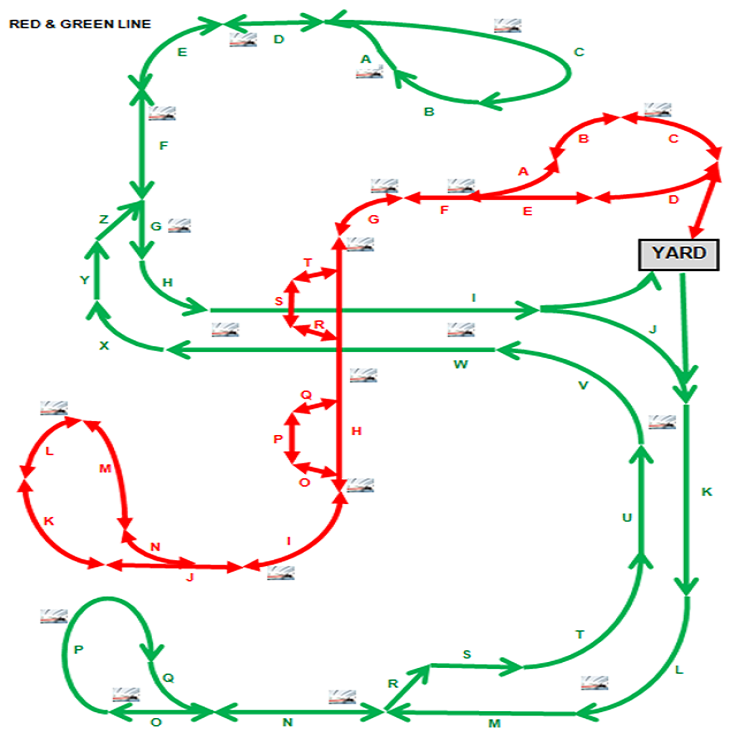
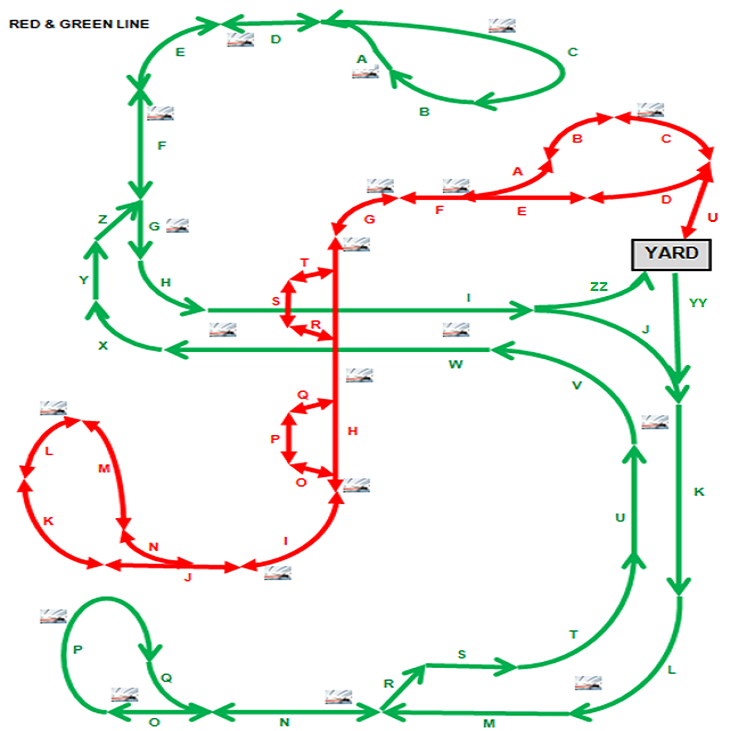
Made slight changes to Office UI

diff --git a/src/ctcOffice/OfficeUI.java b/src/ctcOffice/OfficeUI.java
@@ -122,7 +122,7 @@ public class OfficeUI extends JFrame {
 		
 		JToggleButton toggleButtonG8 = new JToggleButton("");
 		toggleButtonG8.setBackground(Color.LIGHT_GRAY);
-		toggleButtonG8.setBounds(556, 63, 15, 15);
+		toggleButtonG8.setBounds(557, 68, 15, 15);
 		trackDisplayPanel.add(toggleButtonG8);
 		
 		JToggleButton toggleButtonG9 = new JToggleButton("");
@@ -172,12 +172,12 @@ public class OfficeUI extends JFrame {
 		
 		JToggleButton toggleButtonG18 = new JToggleButton("");
 		toggleButtonG18.setBackground(Color.LIGHT_GRAY);
-		toggleButtonG18.setBounds(167, 28, 15, 15);
+		toggleButtonG18.setBounds(167, 34, 15, 15);
 		trackDisplayPanel.add(toggleButtonG18);
 		
 		JToggleButton toggleButtonG19 = new JToggleButton("");
 		toggleButtonG19.setBackground(Color.LIGHT_GRAY);
-		toggleButtonG19.setBounds(149, 43, 15, 15);
+		toggleButtonG19.setBounds(150, 47, 15, 15);
 		trackDisplayPanel.add(toggleButtonG19);
 		
 		JToggleButton toggleButtonG20 = new JToggleButton("");
@@ -392,12 +392,12 @@ public class OfficeUI extends JFrame {
 		
 		JToggleButton toggleButtonG62 = new JToggleButton("");
 		toggleButtonG62.setBackground(Color.LIGHT_GRAY);
-		toggleButtonG62.setBounds(661, 363, 15, 15);
+		toggleButtonG62.setBounds(656, 356, 15, 15);
 		trackDisplayPanel.add(toggleButtonG62);
 		
 		JToggleButton toggleButtonG63 = new JToggleButton("");
 		toggleButtonG63.setBackground(Color.LIGHT_GRAY);
-		toggleButtonG63.setBounds(675, 413, 15, 15);
+		toggleButtonG63.setBounds(676, 413, 15, 15);
 		trackDisplayPanel.add(toggleButtonG63);
 		
 		JToggleButton toggleButtonG64 = new JToggleButton("");
@@ -407,32 +407,32 @@ public class OfficeUI extends JFrame {
 		
 		JToggleButton toggleButtonG65 = new JToggleButton("");
 		toggleButtonG65.setBackground(Color.LIGHT_GRAY);
-		toggleButtonG65.setBounds(672, 454, 20, 20);
+		toggleButtonG65.setBounds(673, 454, 20, 20);
 		trackDisplayPanel.add(toggleButtonG65);
 		
 		JToggleButton toggleButtonG66 = new JToggleButton("");
 		toggleButtonG66.setBackground(Color.LIGHT_GRAY);
-		toggleButtonG66.setBounds(676, 481, 15, 15);
+		toggleButtonG66.setBounds(675, 483, 15, 15);
 		trackDisplayPanel.add(toggleButtonG66);
 		
 		JToggleButton toggleButtonG67 = new JToggleButton("");
 		toggleButtonG67.setBackground(Color.LIGHT_GRAY);
-		toggleButtonG67.setBounds(676, 510, 15, 15);
+		toggleButtonG67.setBounds(675, 513, 15, 15);
 		trackDisplayPanel.add(toggleButtonG67);
 		
 		JToggleButton toggleButtonG68 = new JToggleButton("");
 		toggleButtonG68.setBackground(Color.LIGHT_GRAY);
-		toggleButtonG68.setBounds(675, 547, 15, 15);
+		toggleButtonG68.setBounds(676, 549, 15, 15);
 		trackDisplayPanel.add(toggleButtonG68);
 		
 		JToggleButton toggleButtonG69 = new JToggleButton("");
 		toggleButtonG69.setBackground(Color.LIGHT_GRAY);
-		toggleButtonG69.setBounds(673, 618, 15, 15);
+		toggleButtonG69.setBounds(671, 623, 15, 15);
 		trackDisplayPanel.add(toggleButtonG69);
 		
 		JToggleButton toggleButtonG70 = new JToggleButton("");
 		toggleButtonG70.setBackground(Color.LIGHT_GRAY);
-		toggleButtonG70.setBounds(665, 645, 15, 15);
+		toggleButtonG70.setBounds(660, 651, 15, 15);
 		trackDisplayPanel.add(toggleButtonG70);
 		
 		JToggleButton toggleButtonG71 = new JToggleButton("");
@@ -582,7 +582,7 @@ public class OfficeUI extends JFrame {
 		
 		JToggleButton toggleButtonG100 = new JToggleButton("");
 		toggleButtonG100.setBackground(Color.LIGHT_GRAY);
-		toggleButtonG100.setBounds(178, 692, 15, 15);
+		toggleButtonG100.setBounds(175, 694, 15, 15);
 		trackDisplayPanel.add(toggleButtonG100);
 		
 		JToggleButton toggleButtonG101 = new JToggleButton("");
@@ -622,67 +622,67 @@ public class OfficeUI extends JFrame {
 		
 		JToggleButton toggleButtonG108 = new JToggleButton("");
 		toggleButtonG108.setBackground(Color.LIGHT_GRAY);
-		toggleButtonG108.setBounds(608, 612, 15, 15);
+		toggleButtonG108.setBounds(605, 617, 15, 15);
 		trackDisplayPanel.add(toggleButtonG108);
 		
 		JToggleButton toggleButtonG109 = new JToggleButton("");
 		toggleButtonG109.setBackground(Color.LIGHT_GRAY);
-		toggleButtonG109.setBounds(625, 577, 15, 15);
+		toggleButtonG109.setBounds(625, 584, 15, 15);
 		trackDisplayPanel.add(toggleButtonG109);
 		
 		JToggleButton toggleButtonG110 = new JToggleButton("");
 		toggleButtonG110.setBackground(Color.LIGHT_GRAY);
-		toggleButtonG110.setBounds(627, 543, 15, 15);
+		toggleButtonG110.setBounds(631, 543, 15, 15);
 		trackDisplayPanel.add(toggleButtonG110);
 		
 		JToggleButton toggleButtonG111 = new JToggleButton("");
 		toggleButtonG111.setBackground(Color.LIGHT_GRAY);
-		toggleButtonG111.setBounds(628, 529, 15, 15);
+		toggleButtonG111.setBounds(632, 529, 15, 15);
 		trackDisplayPanel.add(toggleButtonG111);
 		
 		JToggleButton toggleButtonG112 = new JToggleButton("");
 		toggleButtonG112.setBackground(Color.LIGHT_GRAY);
-		toggleButtonG112.setBounds(628, 513, 15, 15);
+		toggleButtonG112.setBounds(631, 513, 15, 15);
 		trackDisplayPanel.add(toggleButtonG112);
 		
 		JToggleButton toggleButtonG113 = new JToggleButton("");
 		toggleButtonG113.setBackground(Color.LIGHT_GRAY);
-		toggleButtonG113.setBounds(627, 499, 15, 15);
+		toggleButtonG113.setBounds(631, 499, 15, 15);
 		trackDisplayPanel.add(toggleButtonG113);
 		
 		JToggleButton toggleButtonG114 = new JToggleButton("");
 		toggleButtonG114.setBackground(Color.LIGHT_GRAY);
-		toggleButtonG114.setBounds(627, 482, 20, 20);
+		toggleButtonG114.setBounds(631, 482, 20, 20);
 		trackDisplayPanel.add(toggleButtonG114);
 		
 		JToggleButton toggleButtonG115 = new JToggleButton("");
 		toggleButtonG115.setBackground(Color.LIGHT_GRAY);
-		toggleButtonG115.setBounds(628, 468, 15, 15);
+		toggleButtonG115.setBounds(631, 468, 15, 15);
 		trackDisplayPanel.add(toggleButtonG115);
 		
 		JToggleButton toggleButtonG116 = new JToggleButton("");
 		toggleButtonG116.setBackground(Color.LIGHT_GRAY);
-		toggleButtonG116.setBounds(628, 454, 15, 15);
+		toggleButtonG116.setBounds(631, 454, 15, 15);
 		trackDisplayPanel.add(toggleButtonG116);
 		
 		JToggleButton toggleButtonG117 = new JToggleButton("");
 		toggleButtonG117.setBackground(Color.LIGHT_GRAY);
-		toggleButtonG117.setBounds(626, 421, 15, 15);
+		toggleButtonG117.setBounds(628, 420, 15, 15);
 		trackDisplayPanel.add(toggleButtonG117);
 		
 		JToggleButton toggleButtonG118 = new JToggleButton("");
 		toggleButtonG118.setBackground(Color.LIGHT_GRAY);
-		toggleButtonG118.setBounds(615, 400, 15, 15);
+		toggleButtonG118.setBounds(618, 400, 15, 15);
 		trackDisplayPanel.add(toggleButtonG118);
 		
 		JToggleButton toggleButtonG119 = new JToggleButton("");
 		toggleButtonG119.setBackground(Color.LIGHT_GRAY);
-		toggleButtonG119.setBounds(594, 377, 15, 15);
+		toggleButtonG119.setBounds(601, 381, 15, 15);
 		trackDisplayPanel.add(toggleButtonG119);
 		
 		JToggleButton toggleButtonG120 = new JToggleButton("");
 		toggleButtonG120.setBackground(Color.LIGHT_GRAY);
-		toggleButtonG120.setBounds(564, 362, 15, 15);
+		toggleButtonG120.setBounds(576, 362, 15, 15);
 		trackDisplayPanel.add(toggleButtonG120);
 		
 		JToggleButton toggleButtonG121 = new JToggleButton("");
@@ -837,12 +837,12 @@ public class OfficeUI extends JFrame {
 		
 		JToggleButton toggleButtonG151 = new JToggleButton("");
 		toggleButtonG151.setBackground(Color.LIGHT_GRAY);
-		toggleButtonG151.setBounds(606, 291, 15, 15);
+		toggleButtonG151.setBounds(604, 292, 15, 15);
 		trackDisplayPanel.add(toggleButtonG151);
 		
 		JToggleButton toggleButtonG152 = new JToggleButton("");
 		toggleButtonG152.setBackground(Color.LIGHT_GRAY);
-		toggleButtonG152.setBounds(673, 302, 15, 15);
+		toggleButtonG152.setBounds(672, 323, 15, 15);
 		trackDisplayPanel.add(toggleButtonG152);
 		
 		JToggleButton toggleButton_1 = new JToggleButton("");
@@ -1182,17 +1182,17 @@ public class OfficeUI extends JFrame {
 		
 		JToggleButton toggleButton_68 = new JToggleButton("");
 		toggleButton_68.setBackground(Color.LIGHT_GRAY);
-		toggleButton_68.setBounds(282, 446, 15, 15);
+		toggleButton_68.setBounds(285, 446, 15, 15);
 		trackDisplayPanel.add(toggleButton_68);
 		
 		JToggleButton toggleButton_69 = new JToggleButton("");
 		toggleButton_69.setBackground(Color.LIGHT_GRAY);
-		toggleButton_69.setBounds(282, 430, 15, 15);
+		toggleButton_69.setBounds(285, 430, 15, 15);
 		trackDisplayPanel.add(toggleButton_69);
 		
 		JToggleButton toggleButton_70 = new JToggleButton("");
 		toggleButton_70.setBackground(Color.LIGHT_GRAY);
-		toggleButton_70.setBounds(282, 415, 15, 15);
+		toggleButton_70.setBounds(285, 415, 15, 15);
 		trackDisplayPanel.add(toggleButton_70);
 		
 		JToggleButton toggleButton_71 = new JToggleButton("");
@@ -1227,7 +1227,7 @@ public class OfficeUI extends JFrame {
 		
 		JToggleButton toggleButton_77 = new JToggleButton("");
 		toggleButton_77.setBackground(Color.LIGHT_GRAY);
-		toggleButton_77.setBounds(691, 202, 15, 15);
+		toggleButton_77.setBounds(692, 196, 15, 15);
 		trackDisplayPanel.add(toggleButton_77);
 		
 		JLabel lblLegend = new JLabel("");
@@ -1514,6 +1514,7 @@ public class OfficeUI extends JFrame {
 		schedulePanel.add(scrollPane);
 		
 		table = new JTable();
+		table.setEnabled(false);
 		table.setCellSelectionEnabled(true);
 		table.setFont(new Font("SansSerif", Font.PLAIN, 10));
 		table.setShowVerticalLines(true);
